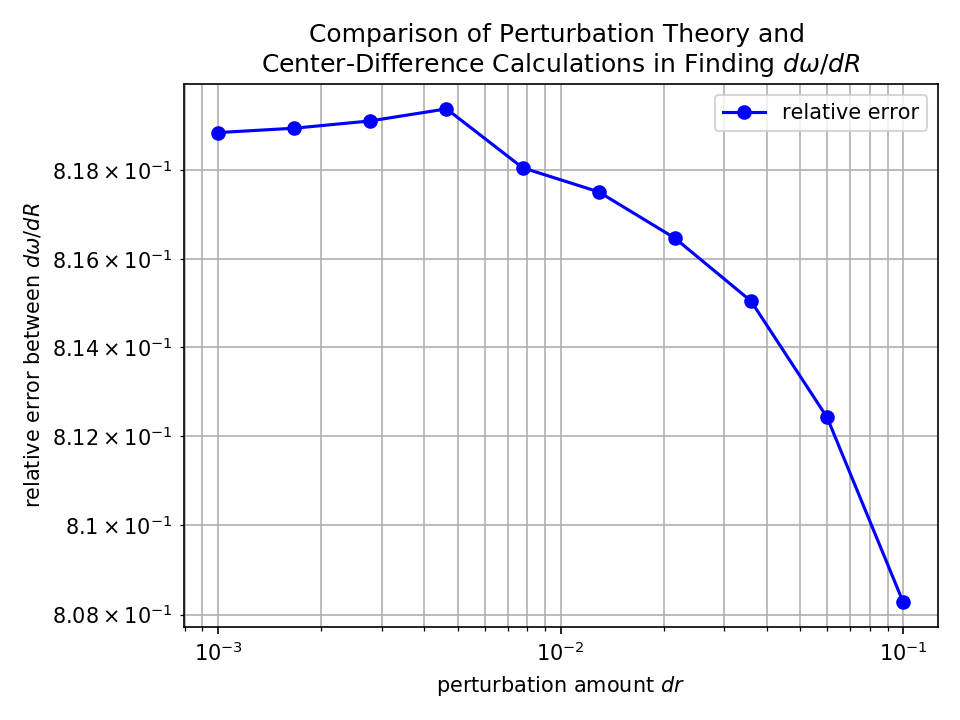
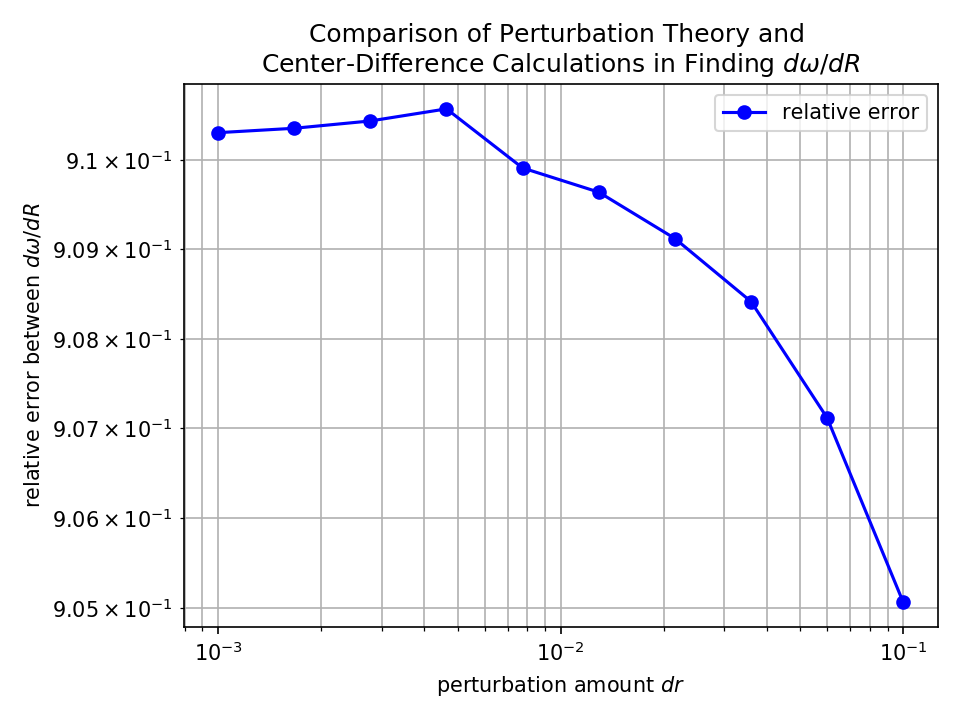
Results with denominator_surface_integral=sim.electric_energy_in_box(center=mp.Vector3(),size=mp.Vector3(2*sr,0,0))

diff --git a/ring_Ez_perturbation_theory.py b/ring_Ez_perturbation_theory.py
@@ -102,7 +102,7 @@ def main():
     # no perpendicular fields are calculated in this instance because none are excited with an Ez source.
 
     numerator_surface_integral = 2 * np.pi * b * mean([mean(parallel_fields_inner), mean(parallel_fields_outer)])
-    denominator_surface_integral = sim.electric_energy_in_box(center=mp.Vector3((b + pad/2) / 2), size=mp.Vector3(b + pad/2))
+    denominator_surface_integral = sim.electric_energy_in_box(center=mp.Vector3(), size=mp.Vector3(2* sr, 0, 0))
     perturb_theory_dw_dR = -Harminv_freq_at_R * numerator_surface_integral / (4 * denominator_surface_integral)
 
     center_diff_dw_dR = []
